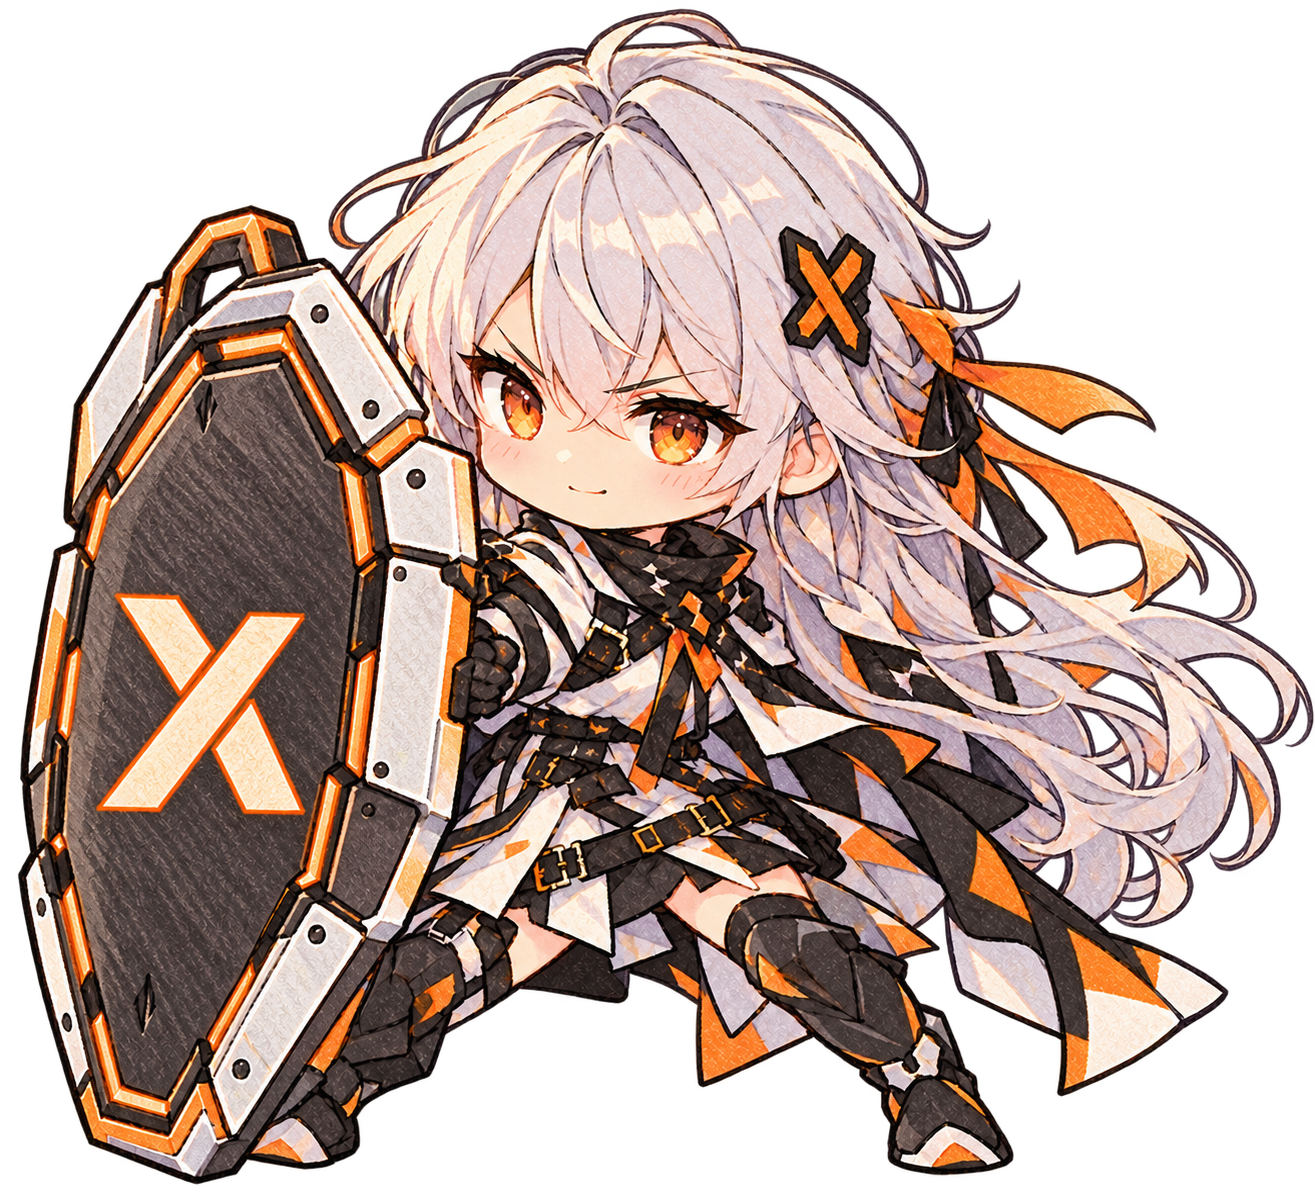
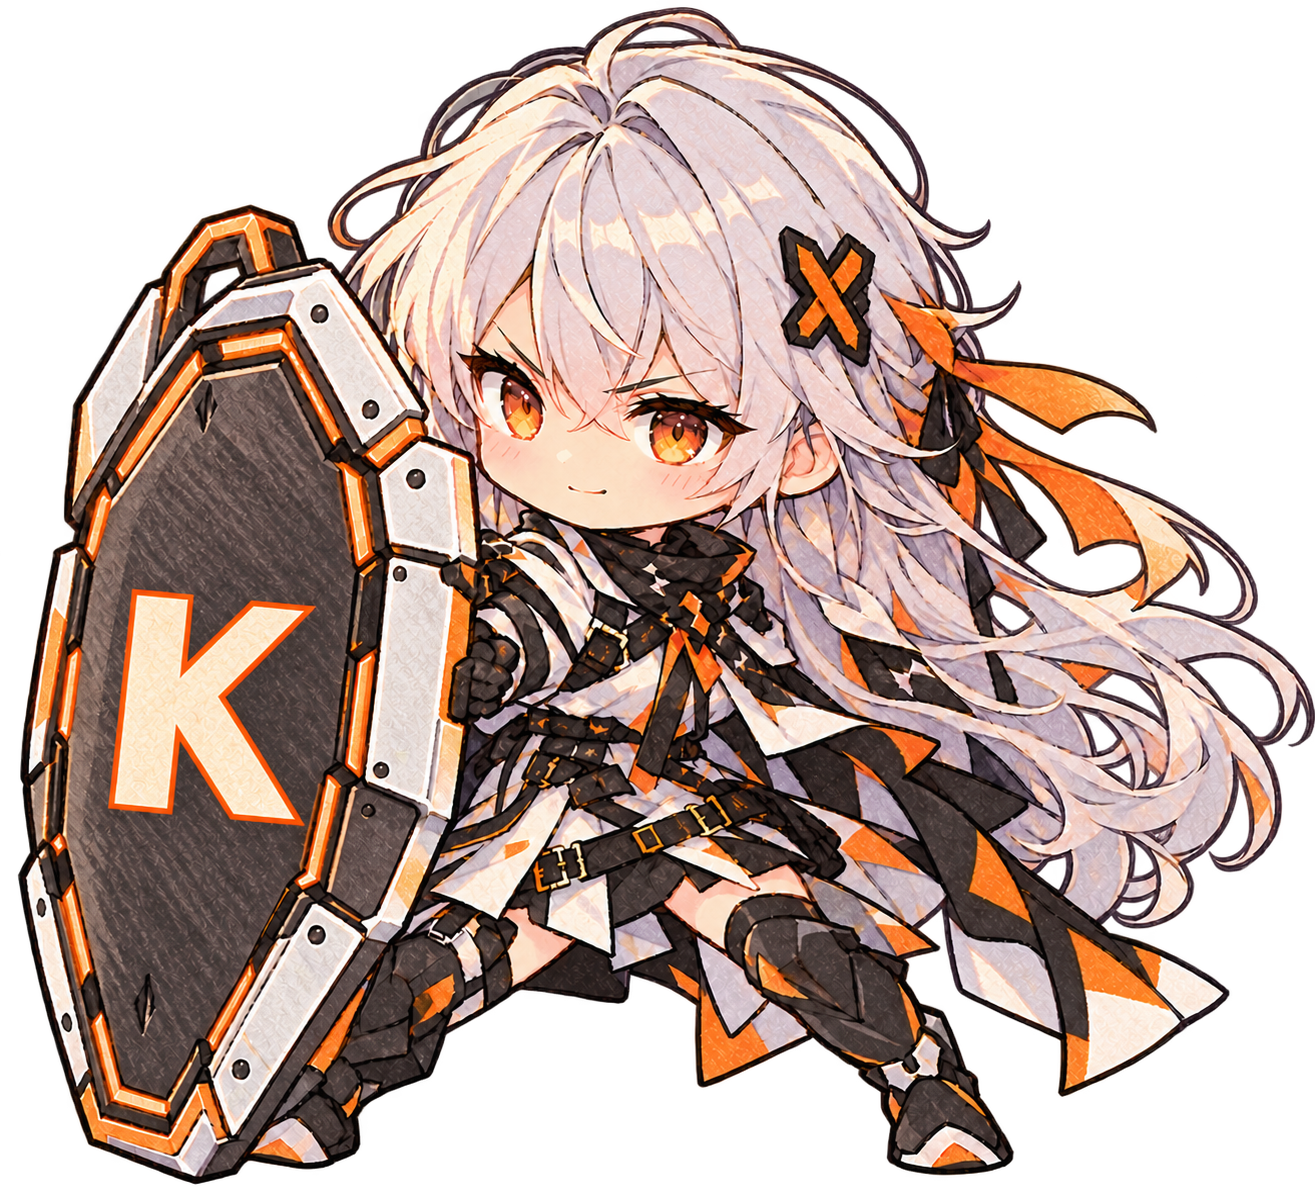
Display the 200x200 mascot thumbnail in the README
Reference kunato-chan-200x200.png from the introduction instead of the
full-size artwork, and update the alt text for the new shield mark.

Refresh kunato-chan.png with the matching full-size artwork so the
source image behind the thumbnail stays versioned.

diff --git a/README.md b/README.md
@@ -4,7 +4,7 @@
 
 Kunato is a lightweight Web Application Firewall (WAF) written in Rust, built for personal users who want an easy-to-deploy protection layer in front of their web applications.
 
-![Kunato-chan, the project mascot: a chibi character holding a shield marked with an X](./kunato-chan.png)
+![Kunato-chan, the project mascot: a chibi character holding a shield](./kunato-chan-200x200.png)
 
 It runs as a reverse proxy between clients (browsers, apps) and your HTTP server,
 inspects incoming requests against categorized, YAML-defined rules, and applies one
